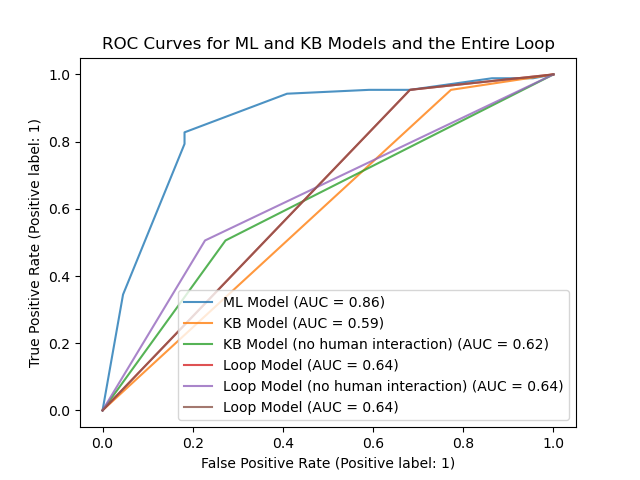
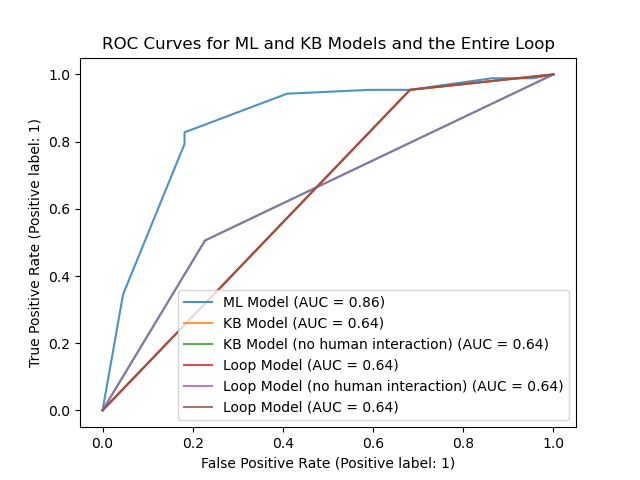
Correct bug in compenstion rule

diff --git a/fhnw_KB.py b/fhnw_KB.py
@@ -98,7 +98,7 @@ def clean_data(df):
     return df
 
 def compare_grade_experience(grade_score, experience_score):
-    if grade_score + experience_score < 1: # if one score is 0, the other must be ++ (2), so the sum is at least + (1)
+    if grade_score + experience_score < 2: # if one score is 0, the other must be ++ (2), so the sum is at least + (1)
         return 0
     return 1 # the default state is to not reject the application
 
